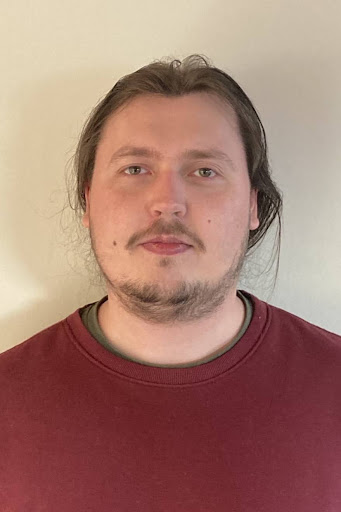
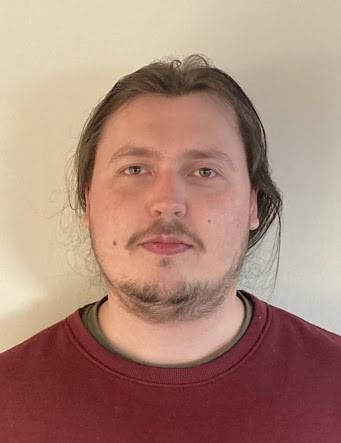
Lagt til min side

diff --git a/Brage.html b/Brage.html
@@ -1,0 +1,246 @@
+<!DOCTYPE html>
+<html lang="no">
+<head>
+    <meta charset="UTF-8">
+    <meta name="viewport" content="width=device-width, initial-scale=1.0">
+    <title>Om Prosjektgruppen</title>
+    <style>
+        body {
+            font-family: Arial, sans-serif;
+            background-color: #f4f4f4;
+            margin: 0;
+            padding: 20px;
+            line-height: 1.6;
+            color: #333;
+        }
+
+        #header {
+            background-color: #4EA72E;
+            display: flex;
+            justify-content: space-between;
+            padding: 15px 20px;
+            align-items: center;
+            border-radius: 8px;
+            box-shadow: 0 4px 10px rgba(0, 0, 0, 0.1);
+        }
+
+        #header h1 {
+            margin: 0;
+            font-size: 28px;
+            color: white;
+        }
+
+        #back-to-home {
+            background-color: white;
+            color: black;
+            padding: 10px 15px;
+            text-decoration: none;
+            border-radius: 5px;
+            font-size: 16px;
+            transition: background-color 0.3s ease;
+            box-shadow: 0 2px 5px rgba(0, 0, 0, 0.2);
+        }
+
+        #back-to-home:hover {
+            background-color: #e0e0e0;
+        }
+
+        .profile-container {
+            max-width: 900px;
+            margin: 20px auto;
+            background-color: white;
+            padding: 20px;
+            border-radius: 10px;
+            box-shadow: 0 4px 15px rgba(0, 0, 0, 0.1);
+            display: flex;
+            align-items: center;
+            gap: 20px;
+        }
+
+        .profile-text {
+            flex: 1;
+        }
+
+        .profile-container img {
+            width: 120px;
+            height: 120px;
+            border-radius: 50%;
+            object-fit: cover;
+            box-shadow: 0 4px 10px rgba(0, 0, 0, 0.1);
+        }
+
+        .profile-text h1 {
+            font-size: 36px;
+            color: rgb(147, 195, 147);
+            margin-bottom: 10px;
+        }
+
+        .profile-text h2 {
+            font-size: 24px;
+            color: #666;
+            margin-bottom: 20px;
+        }
+
+        .profile-text p {
+            font-size: 18px;
+            line-height: 1.6;
+            color: #555;
+            margin-bottom: 20px;
+        }
+
+        .profile-text ul {
+            list-style-type: none;
+            padding: 0;
+        }
+
+        .profile-text ul li {
+            font-size: 18px;
+            color: #333;
+            margin: 5px 0;
+            position: relative;
+            padding-left: 20px;
+        }
+
+        .profile-text ul li::before {
+            content: '✓';
+            position: absolute;
+            left: 0;
+            color: #4EA72E;
+        }
+
+        #footer {
+            background-color: #333;
+            color: white;
+            text-align: center;
+            padding: 15px 0;
+            margin-top: 20px;
+            position: relative;
+        }
+
+        .footer {
+            margin-top: 30px;
+            font-size: 14px;
+            color: #777;
+        }
+        .sok input[type=text] {
+            border-radius: 25px;
+            border: 2px solid #73AD21;
+            padding: 10px;
+            font-size: 17px;
+            width: 40%;
+            background: #f1f1f1;
+        }
+
+        .sok button {
+            border-radius: 25px;
+            border: 2px solid #73AD21;
+            width: 12%;
+            padding: 10px;
+            color: black;
+            font-size: 17px;
+            cursor: pointer;
+            transition: background-color 0.3s ease;
+        }
+
+        .sok button:hover {
+            background-color: lightgreen;
+        }
+
+        .sidenav {
+            height: 100%;
+            width: 250px; 
+            position: fixed;
+            z-index: 1;
+            top: 0;
+            right: -250px; 
+            background-color: #4EA72E;
+            overflow-x: hidden;
+            transition: 0.5s; 
+            padding-top: 60px;
+        }
+
+        .sidenav a {
+            padding: 8px 8px 8px 32px;
+            text-decoration: none;
+            font-size: 25px;
+            color: white;
+            display: block;
+            transition: 0.3s;
+        }
+
+        .sidenav a:hover {
+            background-color: #3e8e41;
+        }
+
+        .sidenav .closebtn {
+            position: absolute;
+            top: 0;
+            right: 25px;
+            font-size: 36px;
+            margin-left: 50px;
+            color: white;
+        }
+
+        span {
+            font-size: 30px;
+            cursor: pointer;
+        }
+
+
+        @media (max-width: 768px) {
+            .profile-container {
+                flex-direction: column;
+                text-align: center;
+            }
+
+            .profile-container img {
+                margin-bottom: 20px;
+            }
+        }
+    </style>
+</head>
+<body>
+    
+    <div id="header">
+        <a id="back-to-home" href="index.html">Tilbake til forsiden</a>
+        <h1>HVLtopia</h1>
+        <span onclick="openNav()">&#9776;</span>
+    </div>
+
+    <div class="profile-container">
+        <img src="BrageBilde.jpg" alt="Bilde av Brage Bakken">
+        
+        <div class="profile-text">
+            <h1>Brage Bakken</h1>
+            <h2>Prosjektmedlem</h2>
+            <p>Brage Bakken er en engasjert og målrettet prosjektmedlem med en sterk evne til å samarbeide. Han har en positiv innstilling som smitter over på resten av teamet, og hans kreative tilnærming til problemløsning bidrar ofte til innovative løsninger. Brage er også svært pålitelig og alltid villig til å støtte sine kolleger, noe som gjør ham til en verdifull ressurs i prosjektarbeidet. I tillegg er han flink til å kommunisere, noe som skaper en åpen og konstruktiv dialog i teamet.</p>
+
+            <h3>Brages sterke sider inkluderer:</h3>
+            <ul>
+                <li>Problemløsning</li>
+                <li>Kunnskap om programmering</li>
+                <li>Samarbeidsevner</li>
+                <li>Fleksibilitet og tilpasningsevne</li>
+                <li>Oppmerksomhet på detaljer</li>
+            </ul>
+        </div>
+    </div>
+    <div id="mySidenav" class="sidenav">
+        <a href="javascript:void(0)" class="closebtn" onclick="closeNav()">&times;</a>
+        <a href="OmProsjektet.html">Om Prosjektet</a>
+        <a href="Tjenester.html">Tjenester</a>
+        <a href="Kunder.html">Kunder</a>
+        <a href="OmOss.html">Om Prosjektgruppa</a>
+        <a href="KontaktOss.html">Kontakt</a>
+    </div>
+    <script>
+        function openNav() {
+            document.getElementById("mySidenav").style.right = "0"; /* Vise menyen */
+        }
+
+        function closeNav() {
+            document.getElementById("mySidenav").style.right = "-250px"; /* Skjule menyen */
+        }
+    </script>
+</body>
+</html>
